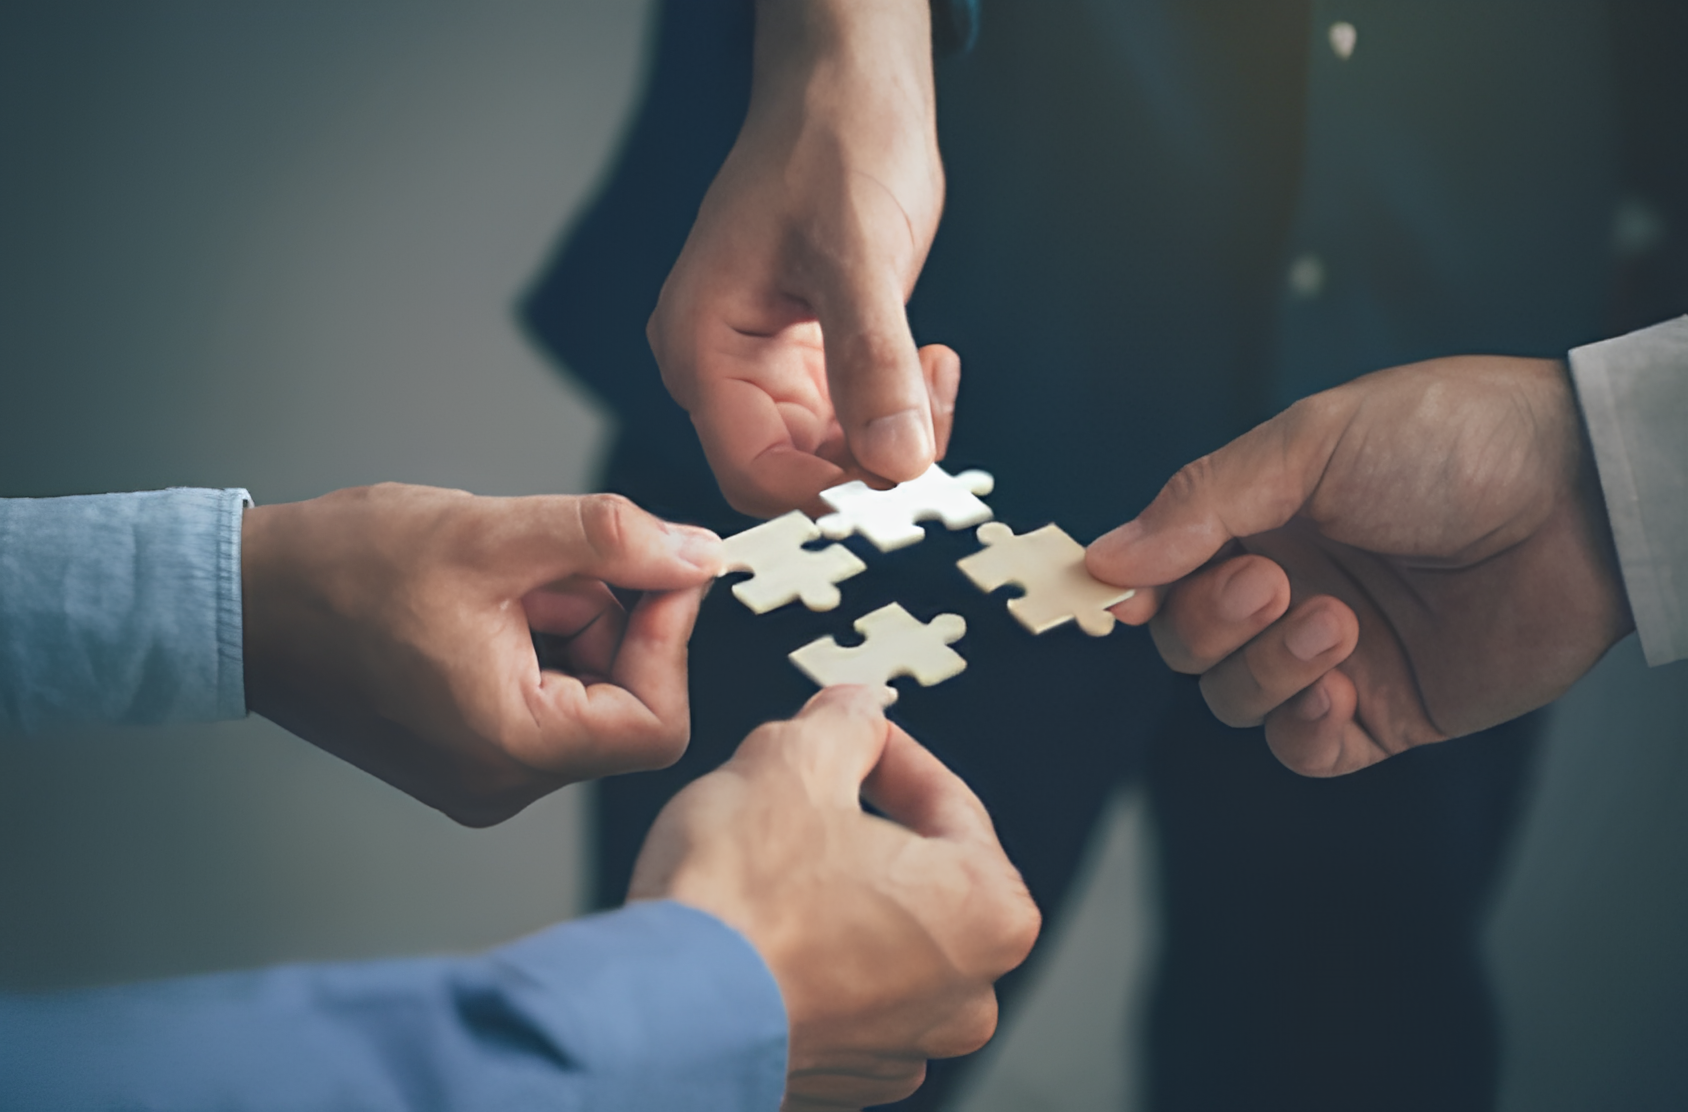
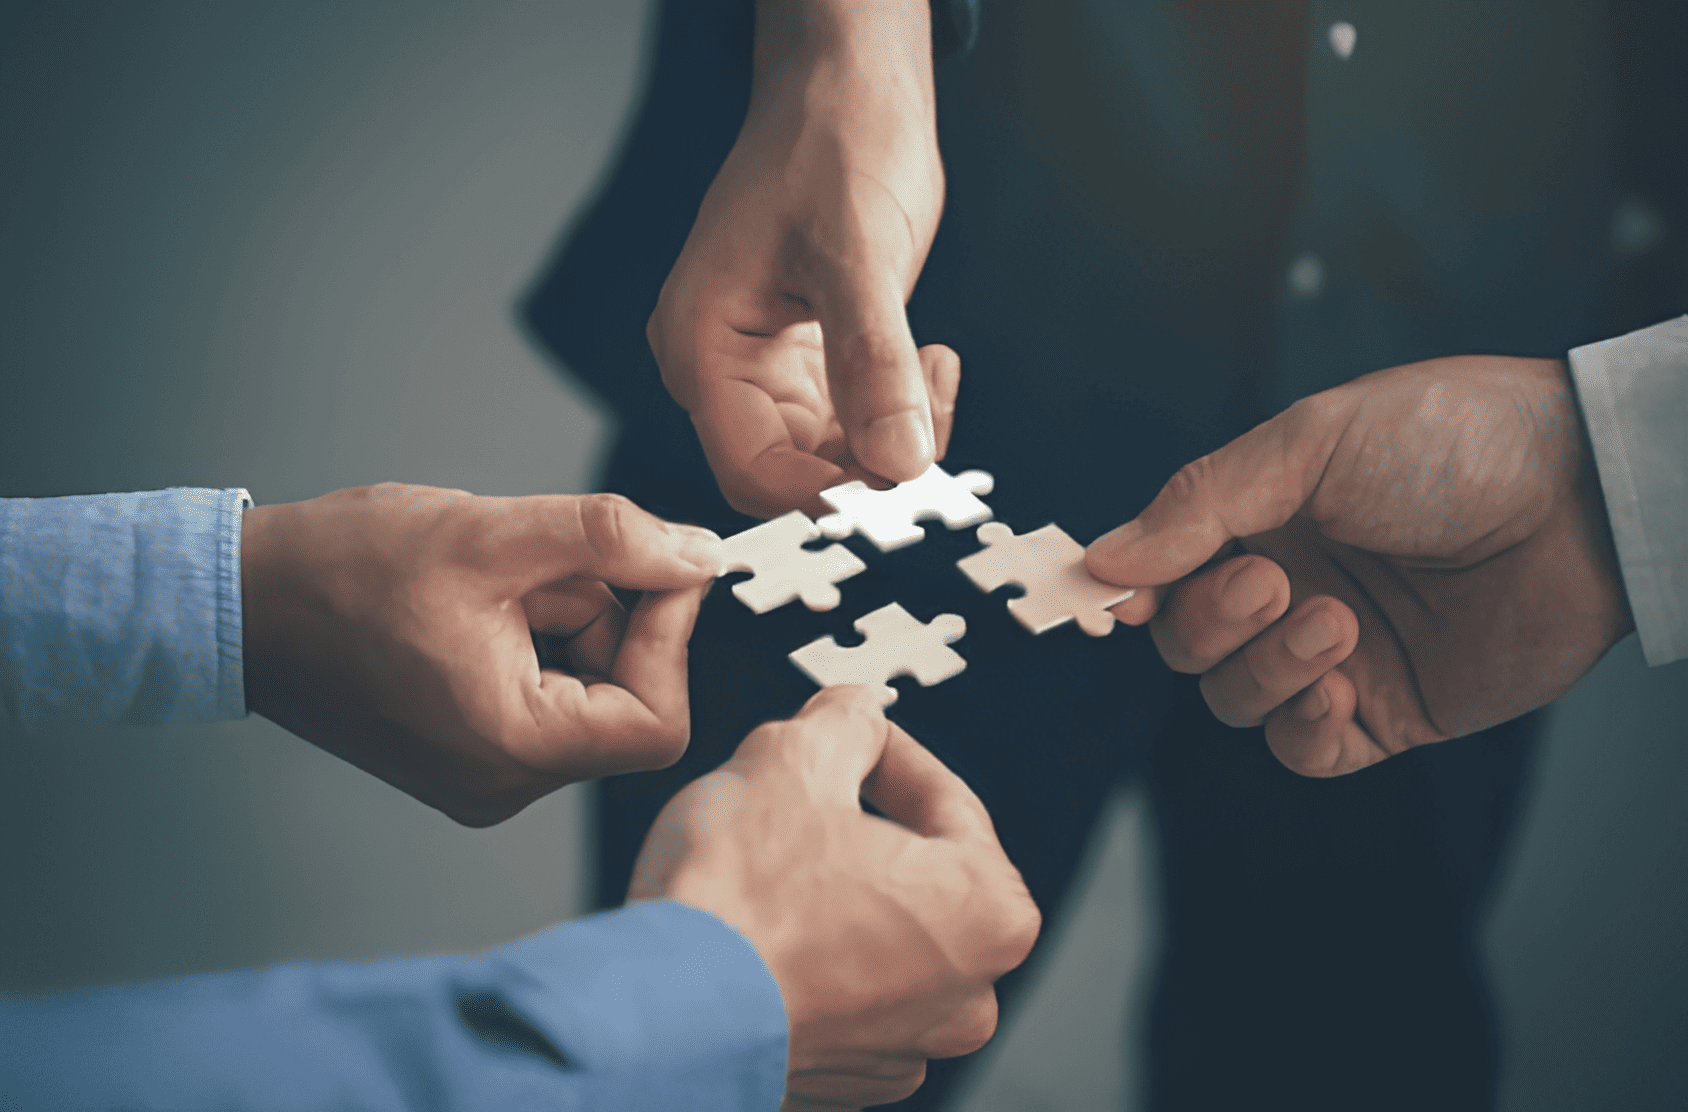
Immaggini ottimizzate

diff --git a/index.html b/index.html
@@ -71,11 +71,11 @@
                     </div>
                     <div class="text-column">
                         <h1>Ciao, io sono Federico!</h1>
-                        <h3>🎨 Creatività + logica</h3>
+                        <h3>Creatività + logica</h3>
                         <p>Sono un Graphic Designer con un mix di testa scientifica e cuore creativo. Precisione e originalità sono il mio pane quotidiano.</p>
-                        <h3>⏱ Organizzato e flessibile</h3>
+                        <h3>Organizzato e flessibile</h3>
                         <p>Gestisco bene tempi e progetti. L'esperienza nella ristorazione mi ha insegnato a essere rapido, adattabile e a lavorare sotto pressione.</p>
-                        <h3>🤝 Serio, ma alla mano</h3>
+                        <h3>Serio, ma alla mano</h3>
                         <p>Offro un servizio curato e su misura, ascolto con attenzione e trasformo le idee in design che funzionano davvero.</p>
                     </div>
                 </div>
